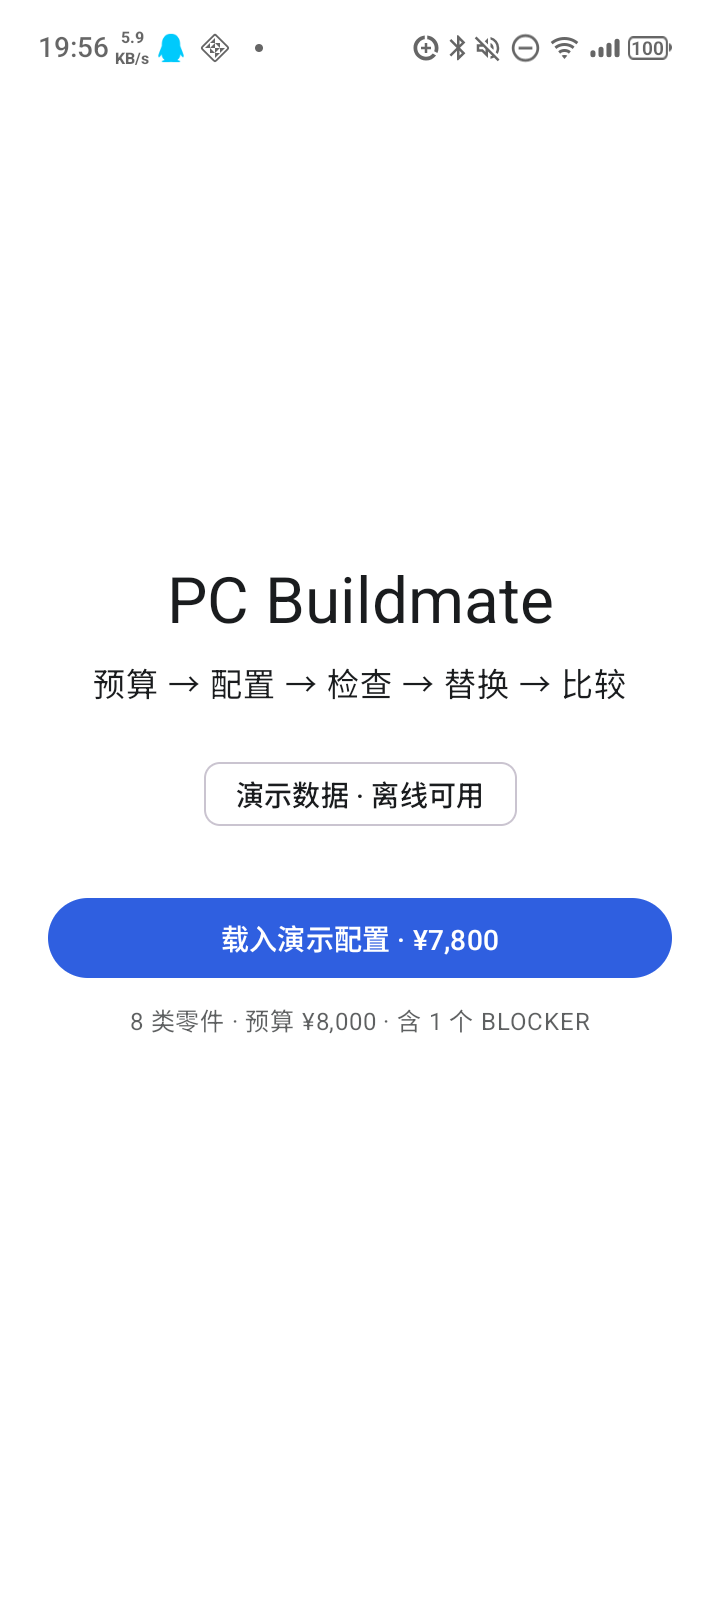
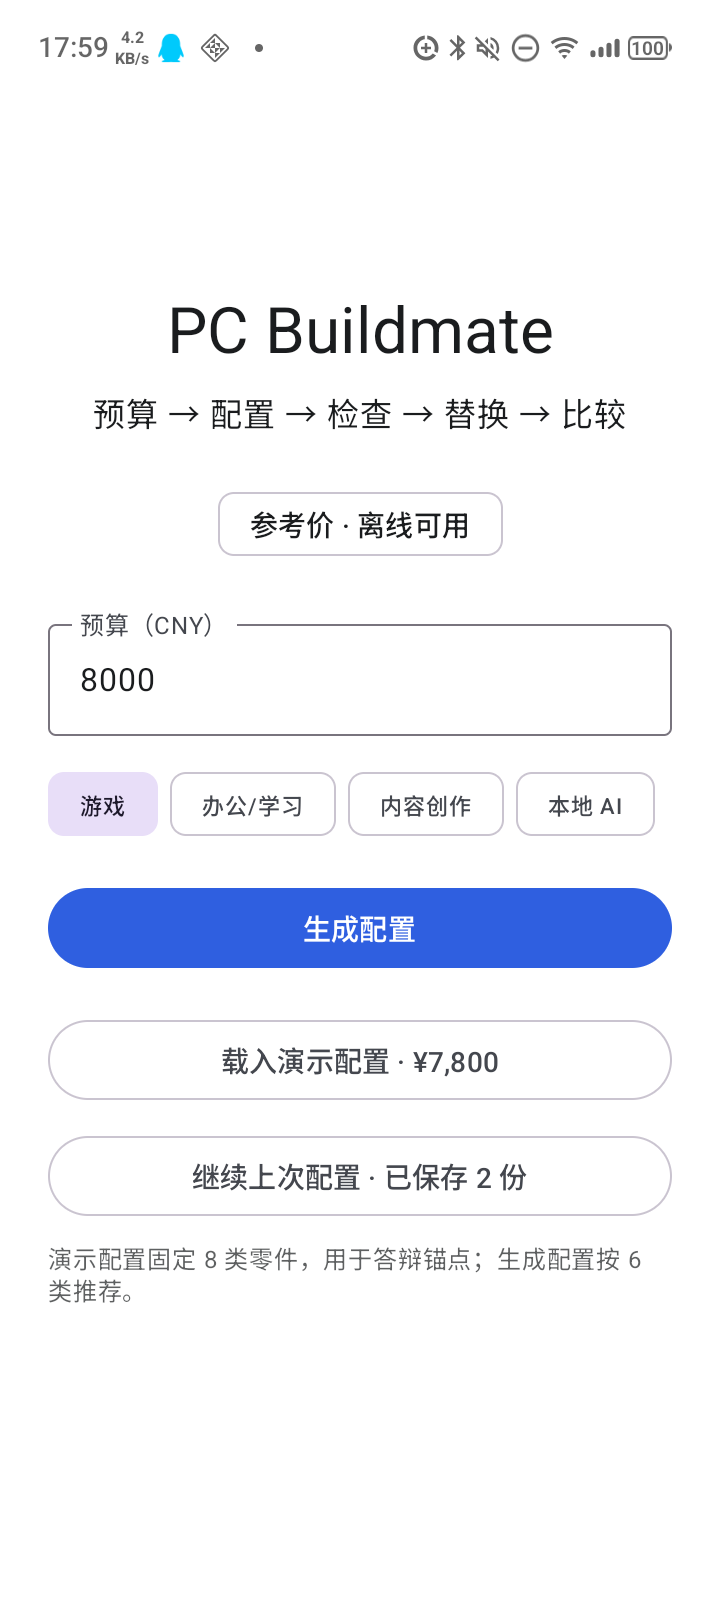
chore: wrap up core work and add team handoff (#25)
Adds Workspace Undo button/canUndo, refreshes entry/workspace/diagnostics screenshots, and writes HANDOFF with current status, test commands, open tasks, and pause week. README/BOARD/PLAN point to HANDOFF.

diff --git a/feature/src/test/kotlin/pcbuildmate/feature/workspace/WorkspaceRevisionTest.kt b/feature/src/test/kotlin/pcbuildmate/feature/workspace/WorkspaceRevisionTest.kt
@@ -31,16 +31,19 @@ class WorkspaceRevisionTest {
         vm.startDemo()
         val base = vm.uiState.value.revision!!
         assertEquals(1L, base.id)
+        assertTrue(!vm.uiState.value.canUndo)
 
         vm.onIntent(WorkspaceIntent.SetQuantity("gpu-demo-337", 2))
         val edited = vm.uiState.value.revision!!
         assertTrue(edited.id > base.id, "INV-02: 编辑后 revision id 必须递增")
+        assertTrue(vm.uiState.value.canUndo)
 
         vm.onIntent(WorkspaceIntent.Undo)
         val undone = vm.uiState.value.revision!!
         assertTrue(undone.id > edited.id, "INV-10: Undo 必须产生更大的 id")
         assertEquals(base.totalCny, undone.totalCny)
         assertEquals(base.items, undone.items)
+        assertTrue(!vm.uiState.value.canUndo)
     }
 
     @Test

diff --git a/ui/src/main/kotlin/pcbuildmate/ui/Screens.kt b/ui/src/main/kotlin/pcbuildmate/ui/Screens.kt
@@ -258,6 +258,15 @@ fun WorkspaceScreen(
                     }
                     Text("检查兼容性")
                 }
+                if (state.canUndo) {
+                    Spacer(Modifier.height(8.dp))
+                    OutlinedButton(
+                        onClick = { onIntent(WorkspaceIntent.Undo) },
+                        modifier = Modifier.fillMaxWidth(),
+                    ) {
+                        Text("撤销上一步")
+                    }
+                }
                 Spacer(Modifier.height(8.dp))
                 OutlinedButton(
                     onClick = { onIntent(WorkspaceIntent.SaveBuild) },

diff --git a/contracts/src/main/kotlin/pcbuildmate/contracts/Workspace.kt b/contracts/src/main/kotlin/pcbuildmate/contracts/Workspace.kt
@@ -180,6 +180,7 @@ data class WorkspaceUiState(
     val rejection: Rejection? = null,
     val isSaved: Boolean = false,
     val isBusy: Boolean = false,
+    val canUndo: Boolean = false,
 ) {
     /** 只有当诊断的 revisionId 等于当前 revision 时才返回，否则 null。 */
     val currentDiagnosis: Diagnosis?

diff --git a/feature/src/main/kotlin/pcbuildmate/feature/workspace/WorkspaceViewModel.kt b/feature/src/main/kotlin/pcbuildmate/feature/workspace/WorkspaceViewModel.kt
@@ -618,6 +618,7 @@ class WorkspaceViewModel(
             isSaved = isSaved,
             isBusy = diagnosisState is DiagnosisState.Running ||
                 replacementState is ReplacementState.Rechecking,
+            canUndo = revisionHistory.isNotEmpty(),
         )
     }
 }

diff --git a/HANDOFF.md b/HANDOFF.md
@@ -1,0 +1,80 @@
+# HANDOFF · 2026-11-05
+
+> 当前 `main`：`5a52d3e`（之后可能多一个 Undo 收尾提交）
+> 状态：**核心 + QA 已收口，暂停等组员一周**。@MoeField 不再推新功能。
+
+## 现在能跑什么
+
+真机（Android 16 / arm64）已验证：
+
+1. Entry：输入预算/用途，生成 6 类配置（8000/GAMING → 7869，权重可见）
+2. 载入演示配置：8 件、¥7,800
+3. 检查：337mm 显卡 vs 320mm 机箱 → BLOCKER；BIOS 未验证
+4. 替换：300mm 显卡 +¥100 → 预览 ¥7,900 → 全量重检 → 应用
+5. 保存 A/B：杀进程后重开，Entry 出现“继续上次配置”
+6. 比较：总价/状态/分类差异
+7. 无 GPU + 无核显：`DisplayOutputGuard` 拒绝
+8. Undo：VM 支持；Workspace 有“撤销上一步”（收尾提交）
+
+## 测试入口
+
+```bash
+node tools/check-docs.mjs
+node ci/check-boundaries.mjs
+node ci/check-keywords.mjs
+
+node tools/gen-matrix.mjs
+node tools/check-matrix.mjs                 # 60/60, 76/76, 18/18
+node tools/check-matrix.mjs --mutations     # 12/12
+
+PYTHONPATH=pricedata/src python3 -m unittest discover -s pricedata/tests
+
+./gradlew :data:testDebugUnitTest :feature:testDebugUnitTest :app:testDebugUnitTest \
+  :domain:rules:test :domain:revision:test :domain:recommend:test \
+  :domain:replacement:test :domain:state:test :domain:compare:test \
+  :app:assembleDebug
+
+# 真机 Room 契约（CI 无设备，不跑）
+./gradlew :data:connectedDebugAndroidTest
+```
+
+## 组员从哪开始
+
+只看 [docs/tasks/BOARD.md](docs/tasks/BOARD.md)。当前空位：
+
+| 优先级 | 任务 | 适合谁 |
+|---|---|---|
+| P1 | [DEFENSE-01](docs/tasks/DEFENSE-01.md) 讲稿/Q&A/PPT | 不写代码也行 |
+| P1 | [RELEASE-01](docs/tasks/RELEASE-01.md) 签名 APK | 需要 keystore |
+| P2 | POLISH-01 文案/可访问性/截图 | UI |
+| P2 | PRICEDATA-01 华硕/七彩虹 adapter、Wayback | 数据/脚本 |
+| P3 | D4 Preferences、Compare 功耗/余量、3 份比较 | 领域/UI |
+
+规则：先改 BOARD owner，再开分支；一个 PR 一个模块；CI 绿了再 squash merge。
+
+## 不要顺手改
+
+- `contracts/` 的冻结类型/端口；
+- `assets/rules/rules-v1.json` 和 60 条 fixture 期望值；
+- `docs/03` 的字段路径表；
+- `assets/catalogue/catalogue-app.json` 的手工内容（应由 `pricedata` merge 生成）。
+
+如果确实要改契约/规则/字段，先写 ADR + scope-change，再在 PR 里说明影响 D3/D5/D6。
+
+## 已知缺口
+
+- UI 只有真机 smoke + Node 原型，没有 Compose semantics；
+- Room 契约是真机 instrumented，CI 不跑；
+- `:test-oracle` 独立参考模型未单独建模块，目前靠 JS 差分 + fixture；
+- D4 Preferences、Compare 功耗/余量、3 份比较未做；
+- 价格数据 adapter/Wayback 未做，当前快照是静态 26 active + 4 demo；
+- `Add/Remove/Import/Reload` intent 还没有 UI 入口。
+
+## 这一周（11/06–11/12）
+
+我不推功能，只做两件事：
+
+1. 看组员 PR，按 BOARD 合并；
+2. 有人接答辩/APK 就配合，没人接我兜底。
+
+11/13 起进入 W3：UI 收口 + 答辩材料；11/28 功能冻结。

diff --git a/README.md b/README.md
@@ -54,7 +54,7 @@ Android 构建在本地跑，产物是 `app/build/outputs/apk/debug/app-debug.ap
 
 | GitHub | 现在 |
 |---|---|
-| [@MoeField](https://github.com/MoeField) | 架构 / 集成 / UI；D4 完成，在做持久化/QA |
+| [@MoeField](https://github.com/MoeField) | 架构 / 集成 / UI；核心与 QA 已收口，暂停等组员 |
 | [@LIU132578](https://github.com/LIU132578) | 已加入；任务自由认领 |
 | [@yys1yys2yys](https://github.com/yys1yys2yys) | 已加入；任务自由认领 |
 | 待加入 | 随时加，直接认领 [BOARD](docs/tasks/BOARD.md) |
@@ -88,13 +88,13 @@ Android 构建在本地跑，产物是 `app/build/outputs/apk/debug/app-debug.ap
 
 ## 这一周做什么
 
-按 [BOARD](docs/tasks/BOARD.md) 的顺序：
+核心 + QA 已收口，**暂停一周等组员提交**。从 [HANDOFF.md](HANDOFF.md) 开始：
 
-1. **D4 预算推荐**：Entry 支持预算/用途输入，生成 6 类起始配置；权重可见；无 GPU 强制核显。
-2. **DEMO 目录**：已到 32 条（8 类 ≥3）；下一步补到每类 4+，先补机箱/散热/存储。
-3. **QA 矩阵**：`check-matrix` 读真实测试结果，不再只打印规格。
-4. **Room 持久化**：已完成；杀进程后 A/B 还在。
-5. 以上完成后：更新演示脚本、截图、签名 APK。
+1. **答辩材料**：讲稿 / 9 步演示 / Q&A / PPT（DEFENSE-01）
+2. **签名 APK**：`v1.0-defense`（RELEASE-01）
+3. **UI 收口**：文案、可访问性、截图（POLISH-01）
+4. **数据管道**：华硕/七彩虹 adapter、Wayback（PRICEDATA-01，P2）
+5. 组员按 [BOARD](docs/tasks/BOARD.md) 自由认领；没人做的 @MoeField 兜底。
 
 每个任务都有一页小文档，放在 [docs/tasks/](docs/tasks/)。
 开工前只读：任务包 + 本模块卡（06）+ 相关契约（02/`contracts/`）+ 相关规则/状态机。
@@ -144,6 +144,7 @@ node tools/test-demo-ui.mjs
 - 目录是 **demo 数据**，不是实时市场；价格带日期，但不承诺库存。
 - 不做 FPS / 跑分 / 性能分档；不做 3D 装配；不接账号 / 云同步。
 - Room 持久化已完成；杀进程后保存的 A/B 可恢复（诊断需重新检查）。
+- 组员入口见 [HANDOFF.md](HANDOFF.md)；当前 `main` 的测试/矩阵/变异状态以它为准。
 - 比较页目前只输出总价、状态、分类花费；功耗/升级余量/物理尺寸待补。
 - 演示只覆盖 2 份配置；3 份需要横向滚动。
 

diff --git a/docs/tasks/BOARD.md b/docs/tasks/BOARD.md
@@ -25,10 +25,8 @@
 
 | ID | 模块 | 状态 | 认领 | 依赖 | 文档 |
 |---|---|---|---|---|---|
-| PRICEDATA-01 | 2020+ 价格数据管道（6 类，半自动） | **doing** | @MoeField | — | [pricedata/README.md](../../pricedata/README.md) |
-
+| PRICEDATA-01 | 2020+ 价格数据管道（6 类，半自动） | paused | @MoeField | — | [pricedata/README.md](../../pricedata/README.md) |
 | QA-01 | 矩阵 + 12 条关键变异 | done | @MoeField | [QA-01](QA-01.md) |
-
 | POLISH-01 | 文案资源 / 可访问性 / 截图 | doing | @MoeField | D2/D6 | [POLISH-01](POLISH-01.md) |
 | DEFENSE-01 | 讲稿 / 演示脚本 / Q&A | backlog | 开放 | D4/D6 | [DEFENSE-01](DEFENSE-01.md) |
 | RELEASE-01 | 签名 APK / Release | backlog | @MoeField | QA | [RELEASE-01](RELEASE-01.md) |

diff --git a/PLAN.md b/PLAN.md
@@ -1,6 +1,7 @@
 # PLAN · 接下来四周
 
 > 制定日期：2026-11-05｜答辩：12 月初（按 4 周倒排）｜维护人：@MoeField
+> **11/05 更新**：W1 + W2 的 P0/QA 已完成；暂停一周等组员，11/13 起进 W3。
 >
 > 原则：**先保证“能跑 + 说真话”，再谈完整**。六个功能已有五个能演示；剩余工作按 P0 → P1 → P2 排。
 
